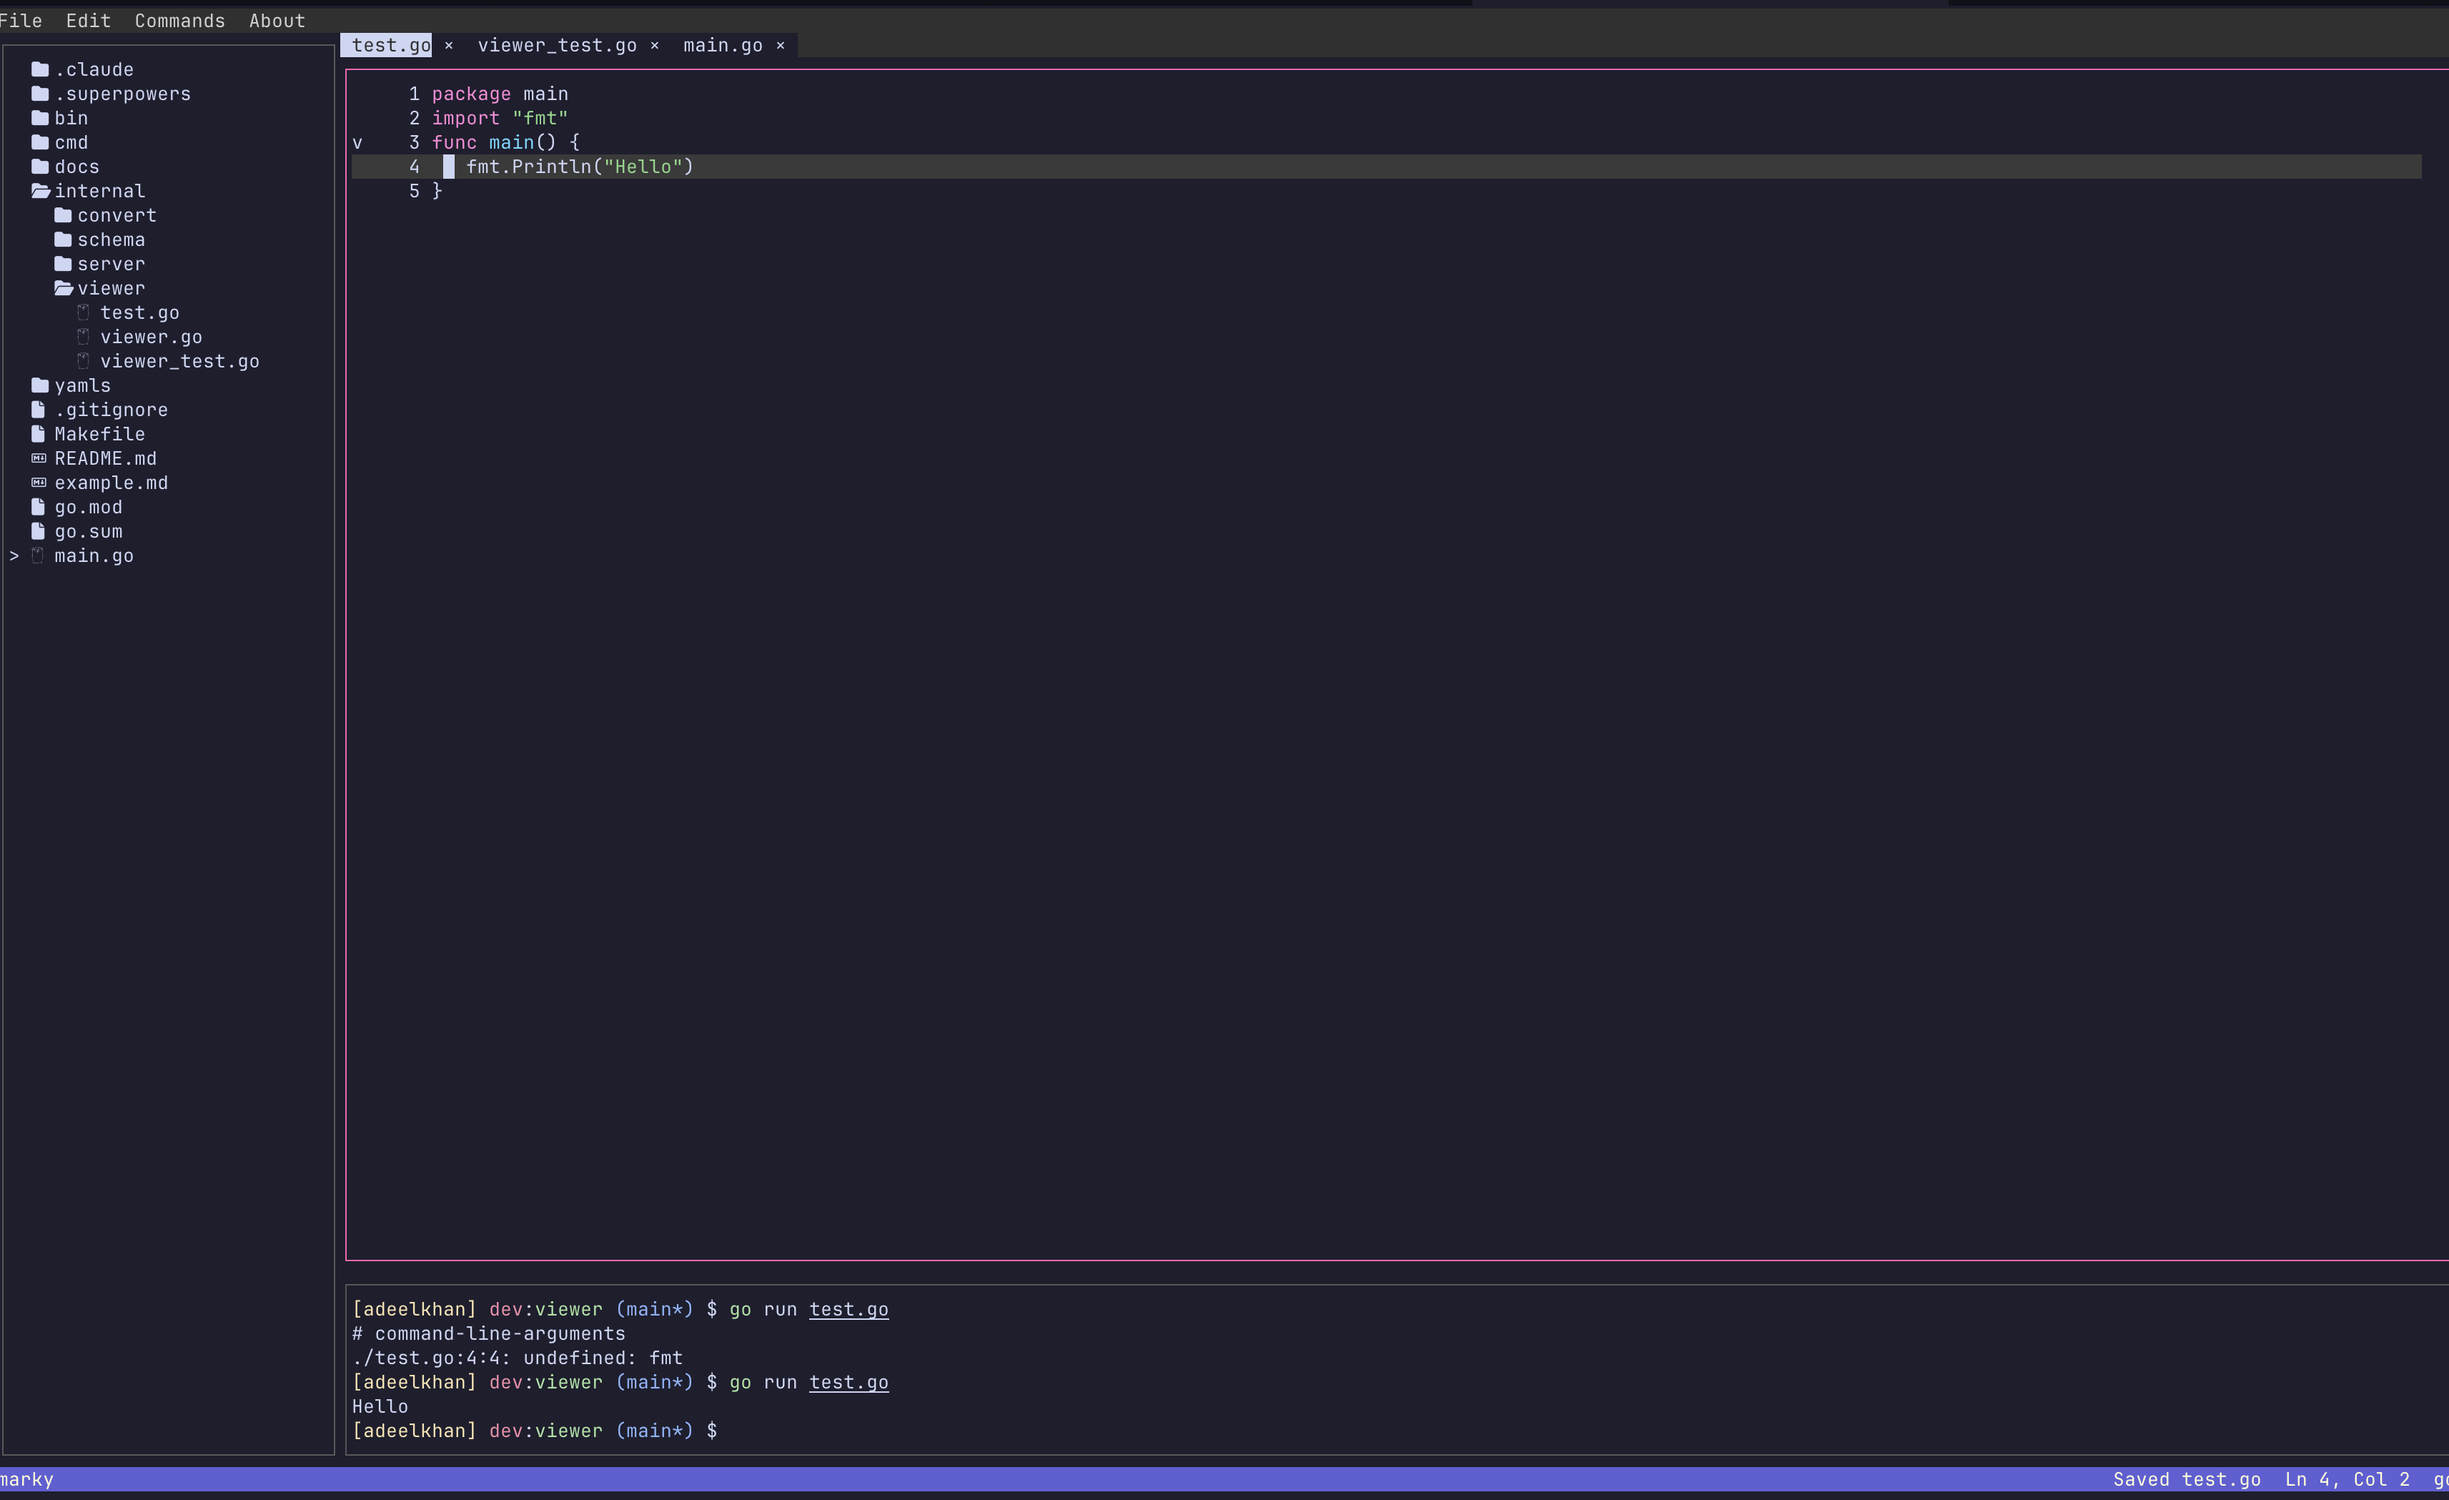
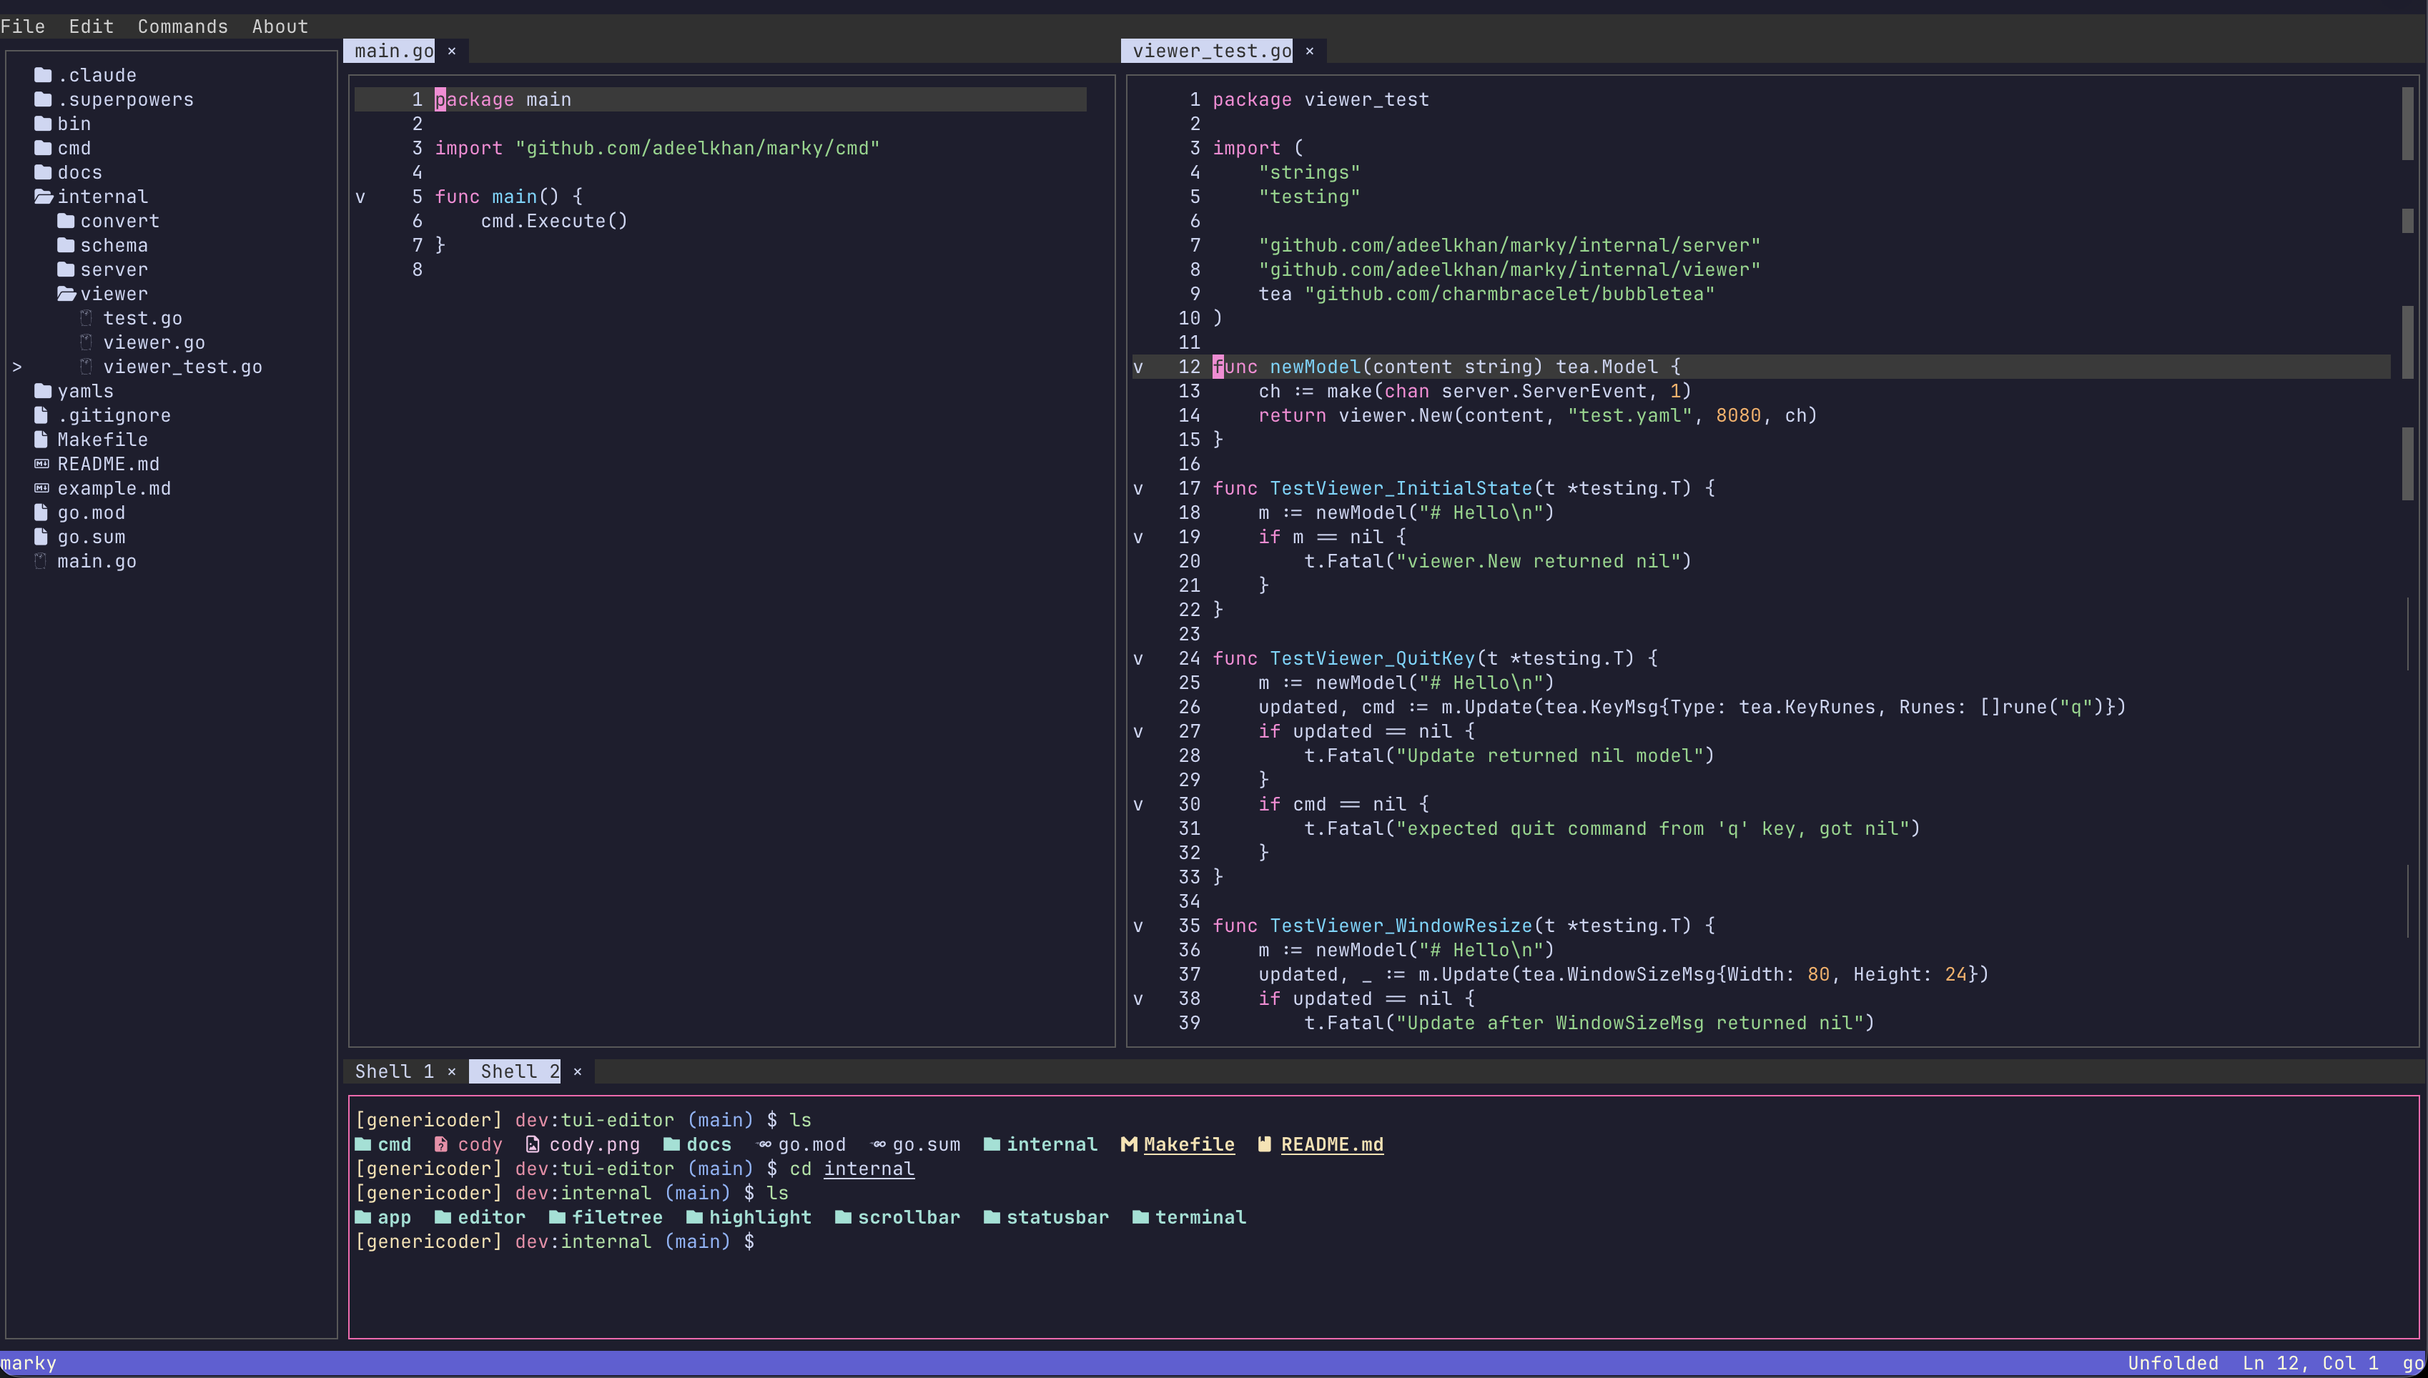
docs: document split-view editor and terminal tabs, update screenshot
README was still describing the single-editor-pane, single-terminal
app from before both features shipped. Adds Features bullets, an
Editor tabs section (tab click/close, right-click split menu),
Terminal pane updates (tab click/close, Ctrl+T, the now-4-shortcut
terminal-focus passthrough allowlist), and the split-boundary drag
in the Global section. Also updates cody.png to the current UI.

Claude-Session: https://claude.ai/code/session_01HvdacCoxehho6CGwkvcSuq

diff --git a/README.md b/README.md
@@ -15,16 +15,23 @@ A terminal-based code editor written in Go.
 - **Incremental search** — `Ctrl+F` opens an in-buffer find dialog; case-insensitive
   substring matching, live match-jump as you type, `Enter`/`Shift+Enter` cycle
   next/previous, `Esc` closes
-- **Embedded terminal** — real shell pane (spawned on first focus); full
-  interactivity: `vim`, `htop`, `ssh`, `Ctrl+C`, etc.
+- **Embedded terminal** — real shell pane; full interactivity: `vim`, `htop`,
+  `ssh`, `Ctrl+C`, etc.
+- **Terminal tabs** — `Ctrl+T` opens a new, fully independent shell session as
+  its own tab (own pty, own scrollback); click to switch, click a tab's `×` to
+  close it
+- **Split-view editor** — right-click a tab and choose "Split + Move Right" to
+  open a second editor pane; each pane is independently editable, scrollable,
+  and resizable, and tabs can be moved between panes from the same menu
 - **Edit operations** — `Ctrl+X`/`Ctrl+C`/`Ctrl+V` cut/copy/paste (internal
   clipboard), `Ctrl+Z`/`Ctrl+Y` undo/redo, `Shift+Arrow` selection
 - **Command palette** — click `Commands` in the menu bar (or use the palette
   shortcut) to search and run any registered command
 - **File open dialog** — `Ctrl+O` to open a file by path (relative to project root
   or absolute)
-- **Resizable panes** — drag the tree's right border to resize it, or the boundary
-  between the editor and terminal to resize the terminal
+- **Resizable panes** — drag the tree's right border to resize it, the boundary
+  between the editor and terminal, or (once split) the boundary between the
+  two editor panes
 - **Status bar** — project name, most-recent command, cursor position, file type
 
 ## Build & run
@@ -49,12 +56,14 @@ make test                         # runs the test suite (go test ./...)
 | `Ctrl+N` | New blank ("Untitled") tab — `Ctrl+S` on it prompts for a save path |
 | `Ctrl+O` | Open file by path |
 | `Ctrl+F` | Find in current buffer |
-| `Ctrl+Q` | Quit (cleanly terminates the spawned shell; prompts if any tab has unsaved changes) |
+| `Ctrl+T` | New terminal tab (starts its shell immediately) |
+| `Ctrl+Q` | Quit (cleanly terminates every open shell; prompts if any tab has unsaved changes) |
 
-Click and drag the tree pane's right border to resize it, or the boundary
-between the editor and terminal to resize the terminal. Both panes have a
-minimum size, and the editor/tree on the other side of the drag always keeps
-enough room to stay usable.
+Click and drag the tree pane's right border to resize it, the boundary
+between the editor and terminal to resize the terminal, or (once the editor
+is split) the boundary between the two editor panes to resize them relative
+to each other. Every pane has a minimum size, and the pane on the other side
+of a drag always keeps enough room to stay usable.
 
 Any open dialog (Open, Find, palette, About, unsaved-changes confirmation,
 New/Rename) can be dismissed with a left click anywhere, same as `Esc`.
@@ -90,6 +99,21 @@ in the tree — type the name and `Enter` to confirm, `Esc` to cancel.
 | `Ctrl+Z` / `Ctrl+Y` | Undo / Redo |
 | `Ctrl+K` | Toggle code fold at cursor line |
 
+### Editor tabs
+
+| Action | Effect |
+|--------|--------|
+| Click a tab | Switch to it |
+| Click a tab's `×` | Close it (prompts if it has unsaved changes) |
+| Right-click a tab | Open a menu to move it into a split |
+
+Right-clicking a tab in the left (or only) pane offers **Split + Move
+Right**: opens a second editor pane and moves that tab into it. Each pane
+keeps its own tab bar and is independently editable, scrollable, and
+resizable. Right-clicking a tab in the right pane offers **Move Left** to
+move it back — moving the split's last tab out of either pane collapses
+back to a single pane.
+
 ### Find dialog (`Ctrl+F`)
 
 | Key | Action |
@@ -101,9 +125,16 @@ in the tree — type the name and `Enter` to confirm, `Esc` to cancel.
 
 ### Terminal pane
 
+The terminal pane supports multiple independent tabs, each its own shell
+session (own pty, own scrollback) — click a tab to switch to it, click its
+`×` to close it. The terminal pane itself can't be closed: closing the last
+remaining tab resets it to a fresh, unstarted session rather than closing
+the pane. `Ctrl+T` opens a new tab and starts its shell immediately.
+
 While the terminal pane has focus, keystrokes go directly to the shell.
 `Ctrl+S`/`Ctrl+X`/`Ctrl+C`/`Ctrl+V`/`Ctrl+Z`/`Ctrl+Y`/`Ctrl+K`/`Ctrl+F` pass
-through to the shell. Only `Ctrl+O` and `Ctrl+Q` stay global.
+through to the shell. Only `Ctrl+O`, `Ctrl+N`, `Ctrl+T`, and `Ctrl+Q` stay
+global.
 
 ### Menu bar
 
